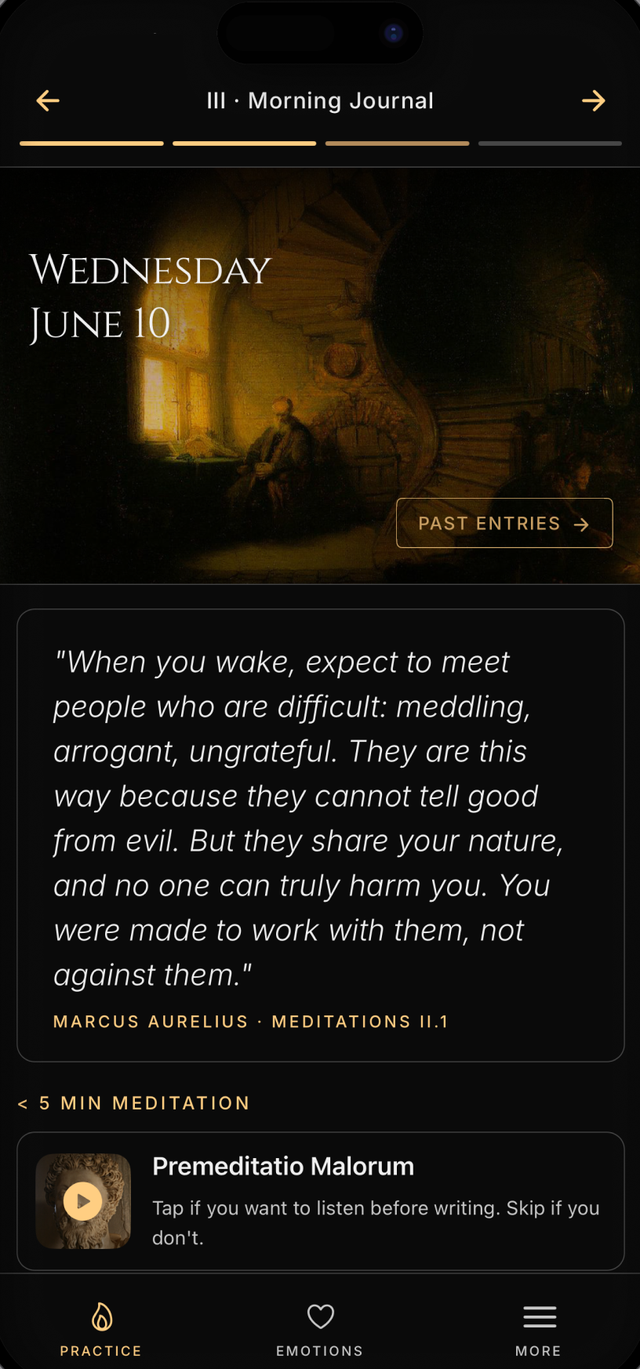
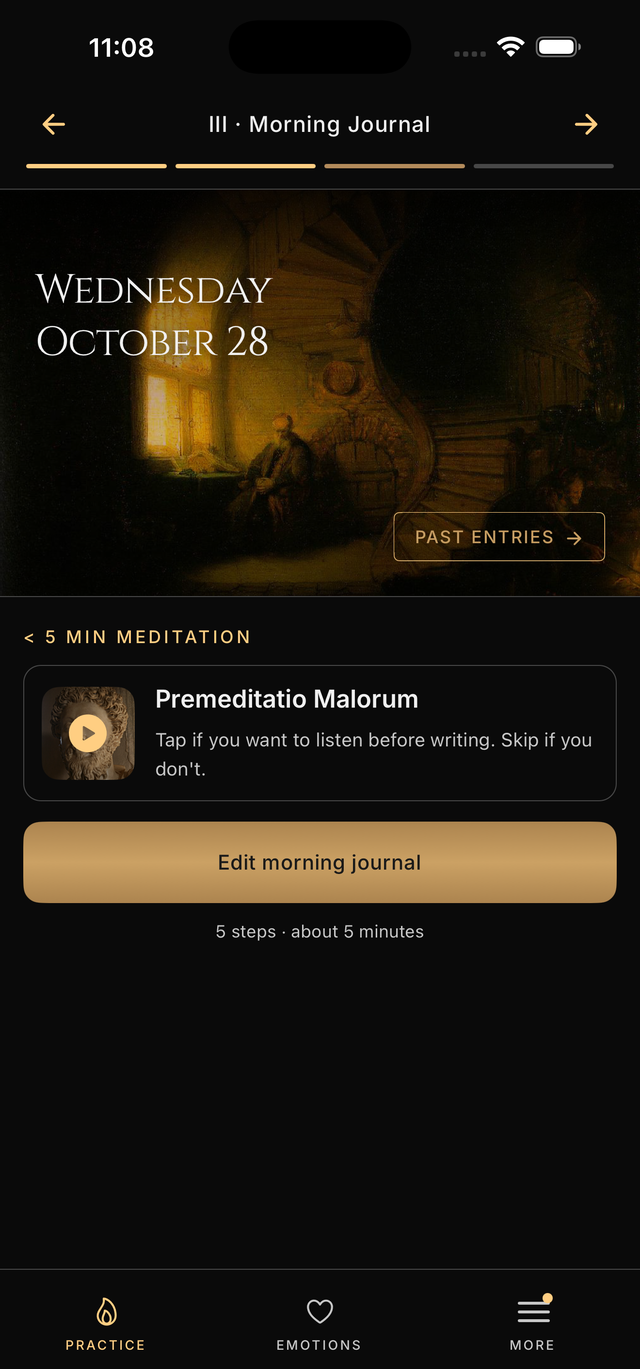
A paraphrase of Meditations II.1 replaced with Long's words, and a current Morning Journal screenshot
The app's morning quote list carried II.1 as 'When you wake, expect to meet
people who are difficult...', a paraphrase in quotation marks; it now reads as
Long translated it. The homepage's Morning Journal image showed that
paraphrase on a screen layout the app dropped in August; retaken from the
current app.

diff --git a/constants/quotes.js b/constants/quotes.js
@@ -193,7 +193,7 @@ export const morningQuotes = [
   { text: "Without friends no one would choose to live, though he had all other goods.", author: "Aristotle", source: "Nicomachean Ethics", ref: "Nicomachean Ethics VIII.1" },
   { text: "The high-minded man must care more for truth than for what people think.", author: "Aristotle", source: "Nicomachean Ethics", ref: "Nicomachean Ethics IV.3" },
   { text: "Those who educate children well are more to be honored than they who produce them.", author: "Aristotle", source: "Diogenes Laertius", ref: "Diogenes Laertius V.19" },
-  { text: "When you wake, expect to meet people who are difficult: meddling, arrogant, ungrateful. They are this way because they cannot tell good from evil. But they share your nature, and no one can truly harm you. You were made to work with them, not against them.", author: "Marcus Aurelius", source: "Meditations", ref: "Meditations II.1" },
+  { text: "Begin the morning by saying to thyself, I shall meet with the busybody, the ungrateful, arrogant, deceitful, envious, unsocial. All these things happen to them by reason of their ignorance of what is good and evil.", author: "Marcus Aurelius", source: "Meditations", ref: "Meditations II.1" },
   { text: "Give me the Serenity to accept the things I cannot change,\nThe Courage to change the things I can,\nAnd the Wisdom to know the difference.", author: "Reinhold Niebuhr", source: "The Serenity Prayer" },
   { text: "Some things are within our control and some are not. Within our control are opinion, desire, aversion, and, in a word, whatever is our own doing. Not within our control are the body, property, and reputation, whatever is not our own doing.", author: "Epictetus", source: "Enchiridion", ref: "Enchiridion 1" },
   { text: "At dawn, when you have trouble getting out of bed, tell yourself: I have to go to work, as a human being. What do I have to complain of, if I'm going to do what I was born for, the things I was brought into the world to do?", author: "Marcus Aurelius", source: "Meditations", ref: "Meditations V.1" },
